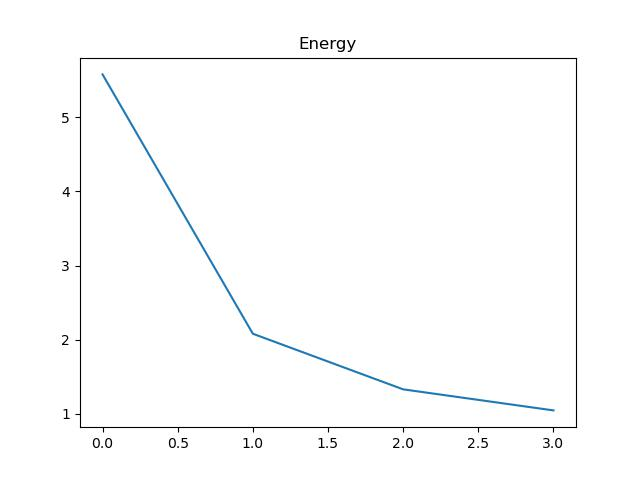
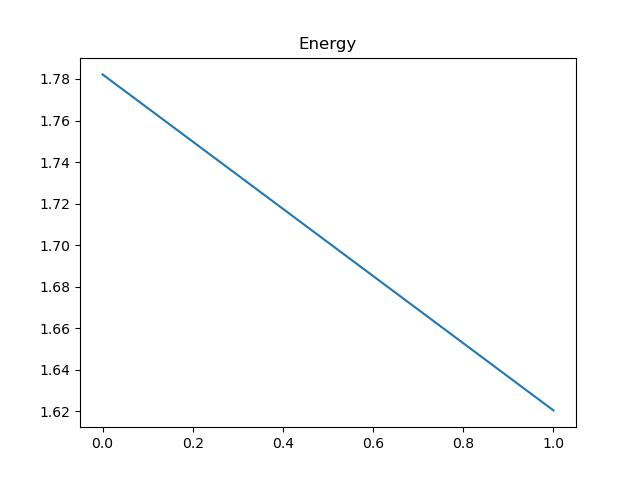
changes

diff --git a/demo_control_polycopie.py b/demo_control_polycopie.py
@@ -178,7 +178,7 @@ if __name__ == '__main__':
     # -- set parameters of the geometry
     N = 150  # number of points along x-axis
     M = 2 * N  # number of points along y-axis
-    level = 1 # level of the fractal
+    level = 3 # level of the fractal
     spacestep = 1.0 / N  # mesh size
 
     # -- set parameters of the partial differential equation
